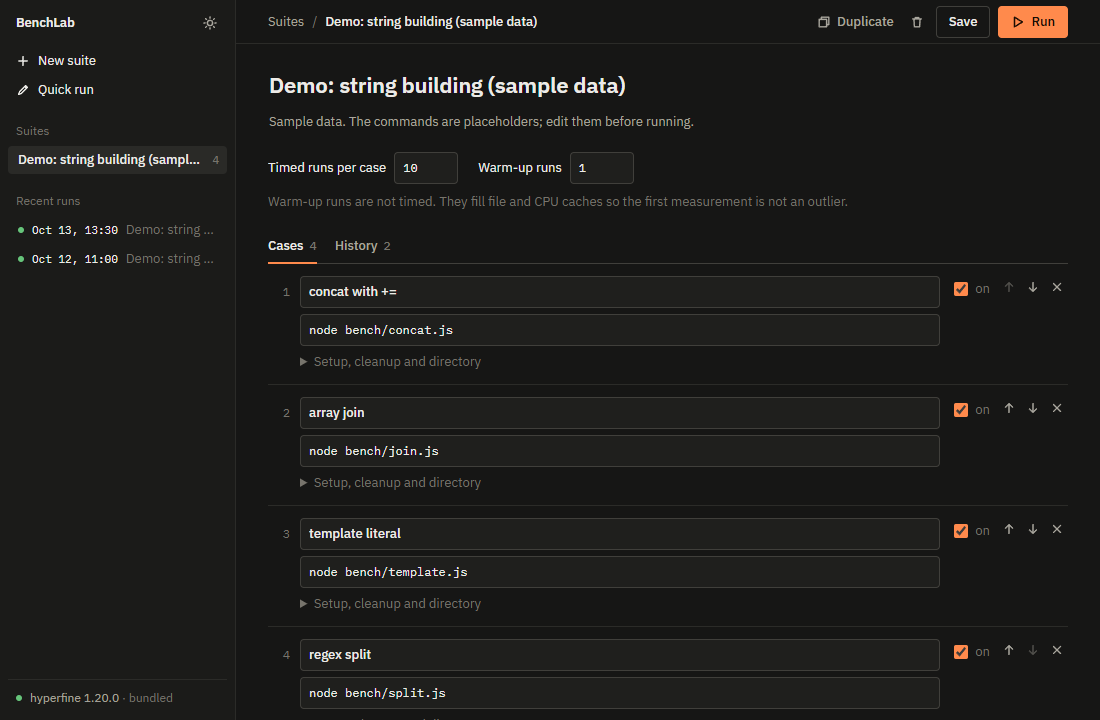
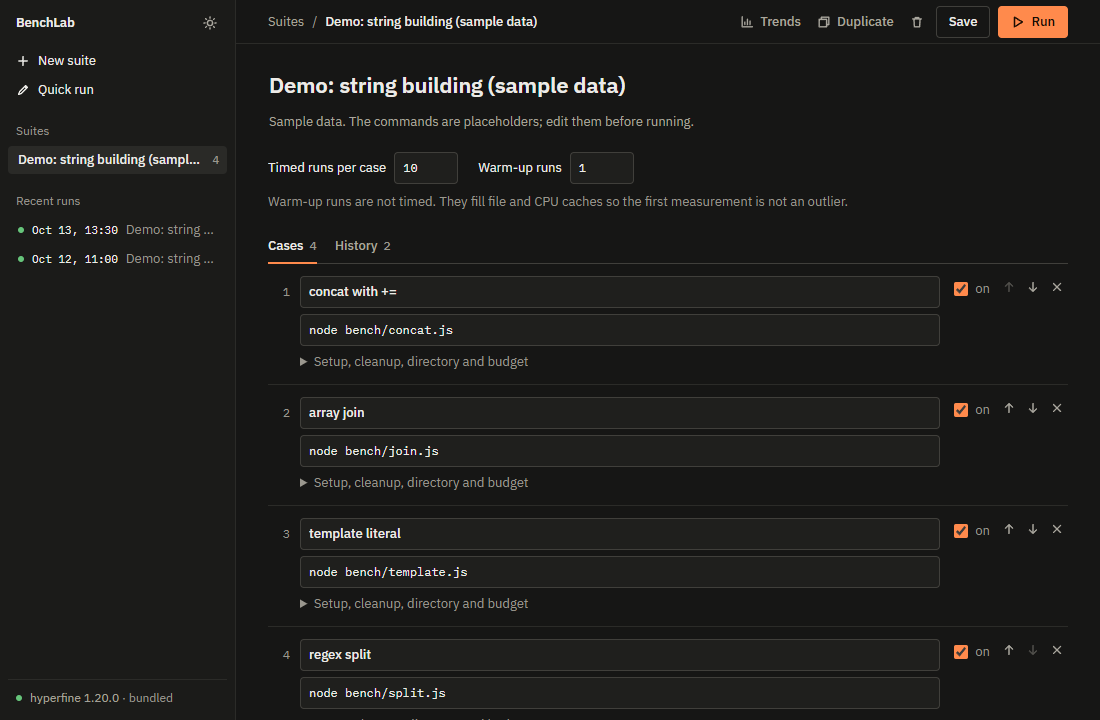
docs: refresh the README screenshots and show the Trends page
The run, compare and suite screenshots predated the Pin, Charts and
Trends buttons. They are regenerated from the UI audit's sample data,
and the Charts step now shows the Trends page.

diff --git a/README.md b/README.md
@@ -35,6 +35,9 @@ The sidebar footer shows which one is in use and its version. Every run records 
 2. **Run.** BenchLab first shows every command, setup, cleanup and directory, and runs nothing until you confirm. You can cancel a running suite; cases already finished are kept.
 3. **Compare.** Open a run and choose Compare. The baseline defaults to the suite's pinned run (pin one from a run's page with Pin as baseline), or to the previous run that has results if none is pinned. Pick any two runs of the suite.
 4. **Charts.** Charts on a run or a comparison opens a page with a histogram of one case's timings and the timings in run order (a cold first run stands out there). Trends on a suite plots one case's mean across its runs, with the 95% band, uncommitted runs and the budget line. Every chart has a Show data table and can be saved as PNG.
+
+   ![Trends for one case](docs/screenshots/light-trends.png)
+
 5. **Export.** Markdown or CSV from a run or a comparison.
 
 **Quick run** times a single command without saving anything. **Load sample data** (sidebar or Quick run) creates a demo suite with two finished runs, so you can look at every screen without running a thing.
